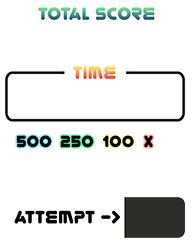
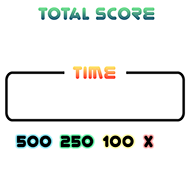
resultPane graphics (finished)

diff --git a/src/menuStuff/ResultPane.java b/src/menuStuff/ResultPane.java
@@ -1,11 +1,13 @@
 package menuStuff;
 
 import gameplay.Game;
+import gameplay.MusicPlayer;
 
 import javax.swing.*;
 import java.awt.*;
 import java.awt.event.*;
 import java.awt.geom.Rectangle2D;
+import java.awt.image.BufferedImage;
 import java.io.FileOutputStream;
 import java.io.IOException;
 import java.io.OutputStreamWriter;
@@ -24,14 +26,21 @@ public class ResultPane extends JPanel implements ActionListener, MouseListener,
     private char vote;
     private String songName;
 
+    private BufferedImageLoader loader;
+    private BufferedImage background, backgroundText;
+
     private boolean CAM;
 
     private final int DELAY = 5;
     private Timer timer;
 
-    public static Stroke defaultStroke;
+    private BufferedImage[] goBackImages, saveScoreImages, retryImages;
+    private Animation goBackAnim, saveScoreAnim, retryAnim;
 
-    private Font buttonsFont;
+    private MusicPlayer buttonAudio;
+
+    private int backX, saveX, retryX;
+
     private Font textFont;
 
     private Rectangle2D rect1; //go back
@@ -68,27 +77,62 @@ public class ResultPane extends JPanel implements ActionListener, MouseListener,
 
         setBounds(0, 0, MyFrame.WIDTH, MyFrame.HEIGHT); //for the real game
 
-        setBackground(Color.black);
         setOpaque(true);
 
-        buttonsFont = new Font("Arial", Font.PLAIN, 25);
-        textFont = new Font("Arial", Font.PLAIN, 30);
+        loader = new BufferedImageLoader();
 
-        width1 = 200;
+        background = loader.loadImage("res/images/backgrounds/background_ResultPane.png");
+        backgroundText = loader.loadImage("res/images/backgrounds/background_resultPane_text.png");
+
+        textFont = new Font("Arial Rounded MT Bold", Font.PLAIN, 30);
+
+        backX = 57;
+        width1 = 275;
         height1 = 50;
-        x1 = 190;
-        y1 = 500;
-        rect1= new Rectangle2D.Float(x1, y1, width1, height1);
+        x1 = backX + 45;
+        y1 = 480;
+        rect1= new Rectangle2D.Float(x1, y1 + 19, width1, height1);
 
-        x2 = x1 + width1 + 20;
-        rect2= new Rectangle2D.Float(x2, y1, width1, height1);
+        saveX = backX + 300;
+        x2 = saveX + 45;
+        rect2= new Rectangle2D.Float(x2, y1 + 19, width1, height1);
 
-        x3 = x2 + width1 + 20;
-        rect3= new Rectangle2D.Float(x3, y1, width1, height1);
+        retryX = saveX + 300;
+        x3 = retryX + 45;
+        rect3= new Rectangle2D.Float(x3, y1 + 19, width1, height1);
 
         change1 = false;
         change2 = false;
         change3 = false;
+
+        goBackImages = new BufferedImage[7];
+        for(int i = 0; i < 7; i++) {
+            goBackImages[i] = loader.loadImage("res/images/goBackButton/goback000" + i + ".png");
+        }
+
+        goBackAnim = new Animation(1, this
+                , goBackImages[0],  goBackImages[1], goBackImages[2], goBackImages[3]
+                , goBackImages[4],  goBackImages[5], goBackImages[6]);
+
+        saveScoreImages = new BufferedImage[7];
+        for(int i = 0; i < 7; i++) {
+            saveScoreImages[i] = loader.loadImage("res/images/saveScoreButton/savescore_button000" + i + ".png");
+        }
+
+        saveScoreAnim = new Animation(1, this
+                , saveScoreImages[0],  saveScoreImages[1], saveScoreImages[2], saveScoreImages[3]
+                , saveScoreImages[4],  saveScoreImages[5], saveScoreImages[6]);
+
+        retryImages = new BufferedImage[7];
+        for(int i = 0; i < 7; i++) {
+            retryImages[i] = loader.loadImage("res/images/retryButton/retry_button000" + i + ".png");
+        }
+
+        retryAnim = new Animation(1, this
+                , retryImages[0],  retryImages[1], retryImages[2], retryImages[3]
+                , retryImages[4],  retryImages[5], retryImages[6]);
+
+        buttonAudio = new MusicPlayer("res/audioButton.wav");
 
         acc = (((scoreCounts[3] * 500) + (scoreCounts[2] * 250) + (scoreCounts[1] * 100)) /
                 (IntStream.of(3, 2, 1, 0).map(i -> scoreCounts[i]).sum())) * 0.2;
@@ -108,6 +152,9 @@ public class ResultPane extends JPanel implements ActionListener, MouseListener,
     @Override
     public void actionPerformed(ActionEvent e) {
         repaint();
+        saveScoreAnim.runAnimation(change2);
+        goBackAnim.runAnimation(change1);
+        retryAnim.runAnimation(change3);
     }
 
     @Override
@@ -119,8 +166,6 @@ public class ResultPane extends JPanel implements ActionListener, MouseListener,
     public void doDrawing(Graphics g){
         Graphics2D g2d = (Graphics2D) g;
 
-        defaultStroke = g2d.getStroke();
-
         RenderingHints rh =
                 new RenderingHints(RenderingHints.KEY_ANTIALIASING,
                         RenderingHints.VALUE_ANTIALIAS_ON);
@@ -130,80 +175,49 @@ public class ResultPane extends JPanel implements ActionListener, MouseListener,
 
         g2d.setRenderingHints(rh);
 
-        g2d.setFont(textFont);
+        g2d.drawImage(background, 0, 0, null);
+        g2d.drawImage(backgroundText,0, 0, null);
 
+        g2d.setFont(textFont);
         g2d.setColor(Color.white);
 
         int songNameWidth = g2d.getFontMetrics().stringWidth(songName);
         if(x1 + songNameWidth >= MyFrame.WIDTH) {
-            g2d.drawString("Song : " + songName.substring(0, songName.length() - 18) + "...", x1, 60);
-        } else g2d.drawString("Song : " + songName, x1, 60);
+            g2d.drawString(songName.substring(0, songName.length() - 42) + "...", 173, 51);
+        } else g2d.drawString(songName, x1, 60);
 
-        g2d.drawString("Your score : " + score, x1, 100);
-        int xPos = x1;
+        g2d.drawString(score + "", 193, 123);
+        int xPos = 190;
         for(int i = 3; i >= 0; i--){
-            g2d.drawString((i == 3 ? 500 : i == 2 ? 250 : i == 1 ? 100 : "X") + "", xPos, 150);
-            g2d.drawString(scoreCounts[i] + "", xPos, 200);
-            xPos += 120;
+            g2d.drawString(scoreCounts[i] + "", xPos, 226);
+            xPos += 94;
         }
 
-        g2d.drawString("Accuracy : "
-                + new BigDecimal(String.valueOf(acc)).setScale(2, BigDecimal.ROUND_FLOOR)
-                + "%", x1, 240);
+        g2d.drawString("" + new BigDecimal(String.valueOf(acc)).setScale(2, BigDecimal.ROUND_FLOOR)
+                + "%", 260, 296);
 
-        g2d.drawString("Vote : " + vote, x1, 280);
-        g2d.drawString("Date : " + dateNow + "", x1, 330);
+        g2d.drawString("" + dateNow + "", 195, 430);
 
-        drawButtons(g2d);
+        if(vote == 'P') g2d.setColor(new Color(255, 0, 244));
+        if(vote == 'A') g2d.setColor(new Color(246, 255, 21));
+        if(vote == 'B') g2d.setColor(new Color(33, 224, 122));
+        if(vote == 'C') g2d.setColor(new Color(0, 102, 255));
+        if(vote == 'D') g2d.setColor(new Color(255, 140, 0));
+        if(vote == 'E') g2d.setColor(new Color(255, 0, 0));
+        g2d.drawString("" + vote, 193, 363);
 
-        g2d.setStroke(defaultStroke);
-    }
+        goBackAnim.drawAnimation(g2d, backX, y1);
+        /*g2d.setColor(Color.red);
+        g2d.draw(rect1);*/
 
-    public void drawButtons(Graphics2D g2d){
-        g2d.setFont(buttonsFont);
-        int button1W = g2d.getFontMetrics().stringWidth("SAVE SCORE");
-        int button2W = g2d.getFontMetrics().stringWidth("RETRY");
-        int button3W = g2d.getFontMetrics().stringWidth("GO BACK");
+        saveScoreAnim.drawAnimation(g2d, saveX, y1);
+        /*g2d.setColor(Color.blue);
+        g2d.draw(rect2);*/
 
-        if(!CAM) {
-            if (change1) {
-                g2d.setColor(Color.white);
-                g2d.fillRect(x1, y1, width1, height1);
-                g2d.setColor(Color.black);
-                g2d.drawString("SAVE SCORE", x1 + (width1 - button1W) / 2, y1 + height1 / 2 + 8);
-            } else {
-                g2d.setColor(Color.white);
-                g2d.drawRect(x1, y1, width1, height1);
-                g2d.setColor(Color.white);
-                g2d.drawString("SAVE SCORE", x1 + (width1 - button1W) / 2, y1 + height1 / 2 + 8);
-            }
-        }
+        retryAnim.drawAnimation(g2d, retryX, y1);
+        /*g2d.setColor(Color.magenta);
+        g2d.draw(rect3);*/
 
-        if(!CAM) {
-            if (change2) {
-                g2d.setColor(Color.white);
-                g2d.fillRect(x2, y1, width1, height1);
-                g2d.setColor(Color.black);
-                g2d.drawString("RETRY", x2 + (width1 - button2W) / 2, y1 + height1 / 2 + 8);
-            } else {
-                g2d.setColor(Color.white);
-                g2d.drawRect(x2, y1, width1, height1);
-                g2d.setColor(Color.white);
-                g2d.drawString("RETRY", x2 + (width1 - button2W) / 2, y1 + height1 / 2 + 8);
-            }
-        }
-
-        if(change3){
-            g2d.setColor(Color.white);
-            g2d.fillRect(x3, y1, width1, height1);
-            g2d.setColor(Color.black);
-            g2d.drawString("GO BACK",x3 + (width1 - button3W)/2, y1 + height1/2 + 8);
-        } else{
-            g2d.setColor(Color.white);
-            g2d.drawRect(x3, y1, width1, height1);
-            g2d.setColor(Color.white);
-            g2d.drawString("GO BACK",x3 + (width1 - button3W)/2, y1 + height1/2 + 8);
-        }
     }
 
     @Override
@@ -256,14 +270,38 @@ public class ResultPane extends JPanel implements ActionListener, MouseListener,
         int y = e.getY();
 
         if (rect1.contains(x, y)) {
+            if(!change1){
+                try {
+                    buttonAudio.createAudio();
+                    buttonAudio.playTrack();
+                } catch (Exception ex) {
+                    ex.printStackTrace();
+                }
+            }
             change1 = true;
         } else change1 = false;
 
         if (rect2.contains(x, y)) {
+            if(!change2){
+                try {
+                    buttonAudio.createAudio();
+                    buttonAudio.playTrack();
+                } catch (Exception ex) {
+                    ex.printStackTrace();
+                }
+            }
             change2 = true;
         } else change2 = false;
 
         if (rect3.contains(x, y)) {
+            if(!change3){
+                try {
+                    buttonAudio.createAudio();
+                    buttonAudio.playTrack();
+                } catch (Exception ex) {
+                    ex.printStackTrace();
+                }
+            }
             change3 = true;
         } else change3 = false;
     }

diff --git a/src/gameplay/Game.java b/src/gameplay/Game.java
@@ -101,11 +101,11 @@ public class Game extends JPanel implements Runnable, MouseListener, MouseMotion
             LettersTiming[i] = new ArrayList<>();
         }
 
-        /*try { //gets notes from a file.txt
+        try { //gets notes from a file.txt
             getNotes("res/notes/notes_" + selectedSong + ".txt");
         } catch (IOException e) {
             e.printStackTrace();
-        }*/
+        }
 
         physicalLettersCreation();
 
@@ -115,12 +115,12 @@ public class Game extends JPanel implements Runnable, MouseListener, MouseMotion
 
         showHitScores = new ShowHitScores(handler);
 
-        /*song = new MusicPlayer("res/songs/" + selectedSong + ".wav");
+        song = new MusicPlayer("res/songs/" + selectedSong + ".wav");
         try {
             song.createAudio();
         } catch (Exception e) {
             e.printStackTrace();
-        }*/
+        }
 
         buttonsFont = new Font("Arial", Font.PLAIN, 25);
 
@@ -202,11 +202,11 @@ public class Game extends JPanel implements Runnable, MouseListener, MouseMotion
     private void tick(){
         if (stopWatch2.getTime() >= 2000 && !started) {
             stopWatch.start();
-            /*try {
+            try {
                 song.playTrack();
             } catch (Exception e) {
                 e.printStackTrace();
-            }*/
+            }
             started = true;
             stopWatch2.stop();
         }
@@ -216,13 +216,13 @@ public class Game extends JPanel implements Runnable, MouseListener, MouseMotion
         hud.tick();
         spawn.tick();
 
-        /*if (stopWatch.getTime() >= 10000 && song.clip != null && !song.clip.isActive() && !stopClick) { //the game ends (OK)
+        if (stopWatch.getTime() >= 10000 && song.clip != null && !song.clip.isActive() && !stopClick) { //the game ends (OK)
             stopWatch.stop();
             ResultPane resultPane = new ResultPane(jFrame, selectedSong, checkAutoMode, hud.getScore(), hud.getScoreCounts());
             jFrame.setContentPane(resultPane);
             jFrame.revalidate();
             running = false;
-        }*/
+        }
     }
 
     private void render(Graphics g){
@@ -245,10 +245,6 @@ public class Game extends JPanel implements Runnable, MouseListener, MouseMotion
         showHitScores.render(g2d);
         hud.render(g2d);
 
-        g2d.setFont(new Font("youre gone", Font.PLAIN, 23));
-        g2d.setColor(new Color(241, 81, 82));
-        g2d.drawString((gameLaunched + 1) + "", 153, 227);
-
         g2d.setColor(new Color(45, 45, 45));
         int yWLine = REDLINESY + 64 / 8 + 10;
 
@@ -259,8 +255,8 @@ public class Game extends JPanel implements Runnable, MouseListener, MouseMotion
         g2d.setColor(Color.white);
 
         g2d.drawString("FPS : " + checkFPS, MyFrame.WIDTH - 130, MyFrame.HEIGHT - 10);
-        g2d.setFont(new Font("youre gone", Font.PLAIN, 20));
-        g2d.drawString(stopWatch.toString() + "", 22, 105);
+        g2d.setFont(new Font("youre gone", Font.PLAIN, 19));
+        g2d.drawString(stopWatch.toString() + "", 20, 105);
 
         g2d.drawLine(posINX, yWLine, posINX + 70 * 10, yWLine);
 

diff --git a/src/menuStuff/MyFrame.java b/src/menuStuff/MyFrame.java
@@ -1,6 +1,7 @@
 package menuStuff;
 
 import javax.swing.*;
+import java.awt.*;
 
 public class MyFrame extends JFrame {
 
@@ -11,8 +12,15 @@ public class MyFrame extends JFrame {
     }
 
     public void initUI(){
-        MainPage mainPage = new MainPage(this);
-        setContentPane(mainPage);
+        //MainPage mainPage = new MainPage(this);
+
+        String selectedSong = "akldsflaskdfjlaskjflskajfkasSDFSDFSFDDFSFDSFDSFDSFSFDFDSDFSfaskfdlsd";
+        int score = 70000;
+        int[] scoreCounts = {0, 0, 0, 123};
+        ResultPane resultPane = new ResultPane(this, selectedSong, false, score, scoreCounts);
+        resultPane.setPreferredSize(new Dimension(WIDTH, HEIGHT));
+
+        setContentPane(resultPane);
 
         setTitle("DANCO");
         setResizable(false);
